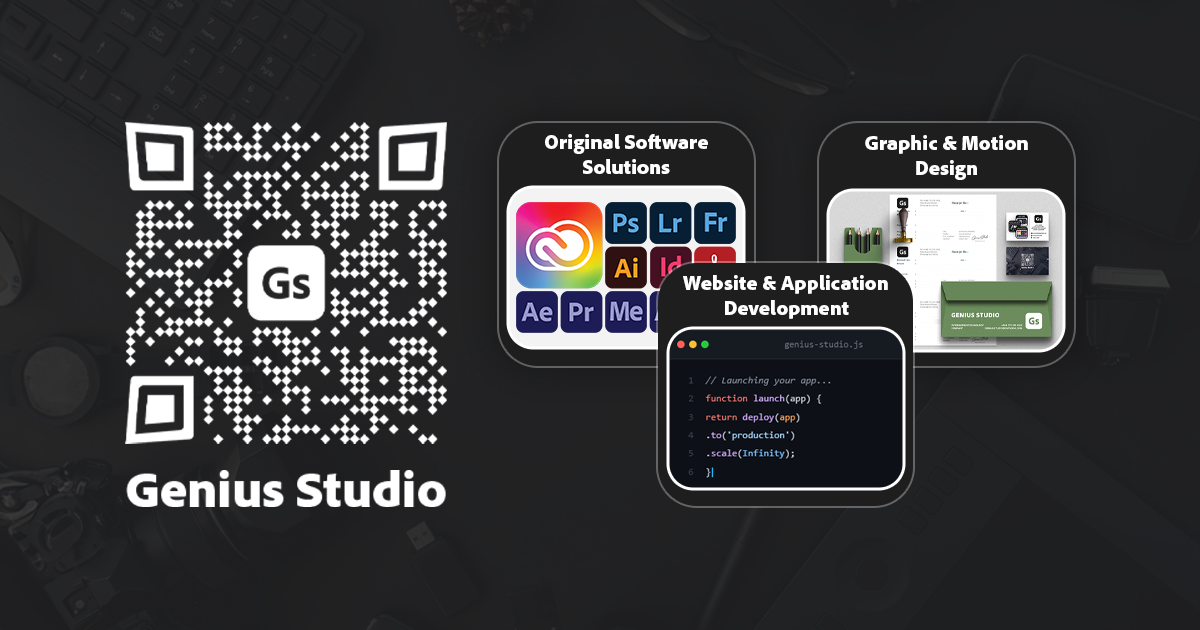
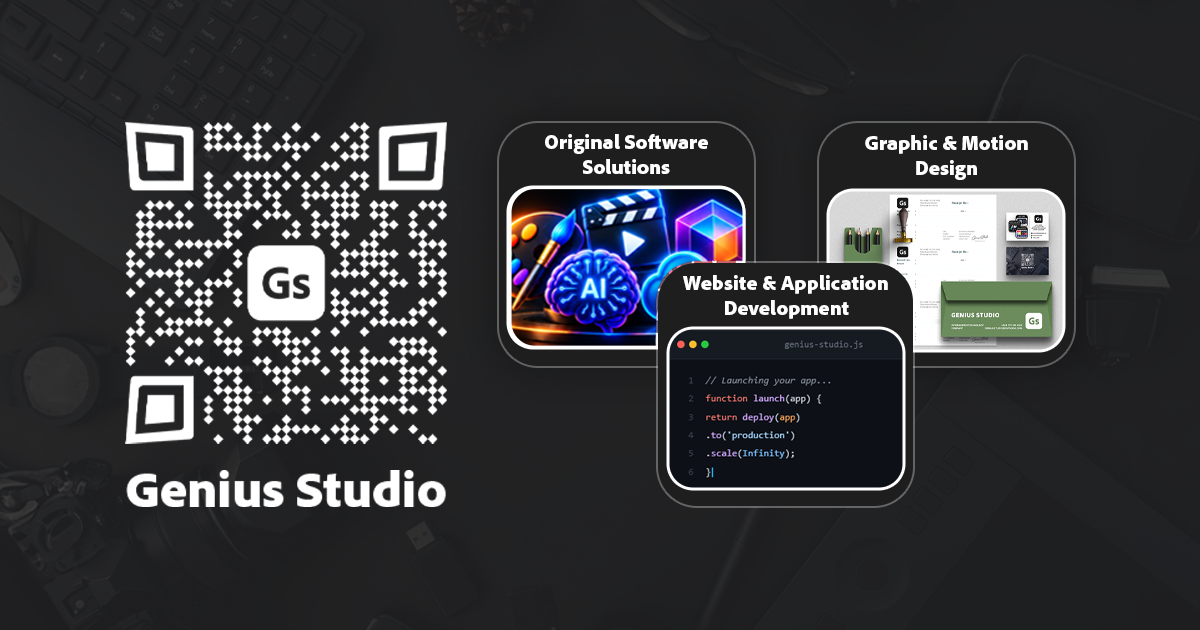
Update website thumbnail and arrange assets

Changed region(s): [[0.4008, 0.3016, 0.6475, 0.573]]

diff --git a/index.html b/index.html
@@ -1,4 +1,4 @@
-<!DOCTYPE html>
+<!DOCTYPE html>
 <html lang="en">
 
 <head>
@@ -19,7 +19,7 @@
   <meta property="og:image:type" content="image/png">
   <meta property="og:image:width" content="1200">
   <meta property="og:image:height" content="630">
-  <meta property="og:image:alt" content="Genius Studio â€” Information Technology Agency">
+  <meta property="og:image:alt" content="Genius Studio — Information Technology Agency">
   <meta property="og:site_name" content="Genius Studio">
 
   <!-- Twitter / X -->
